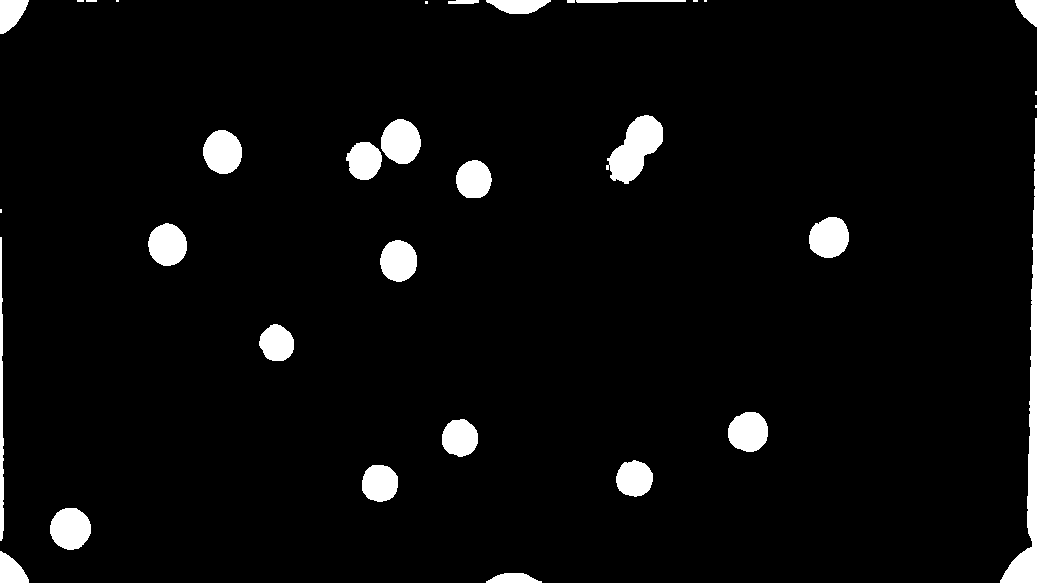
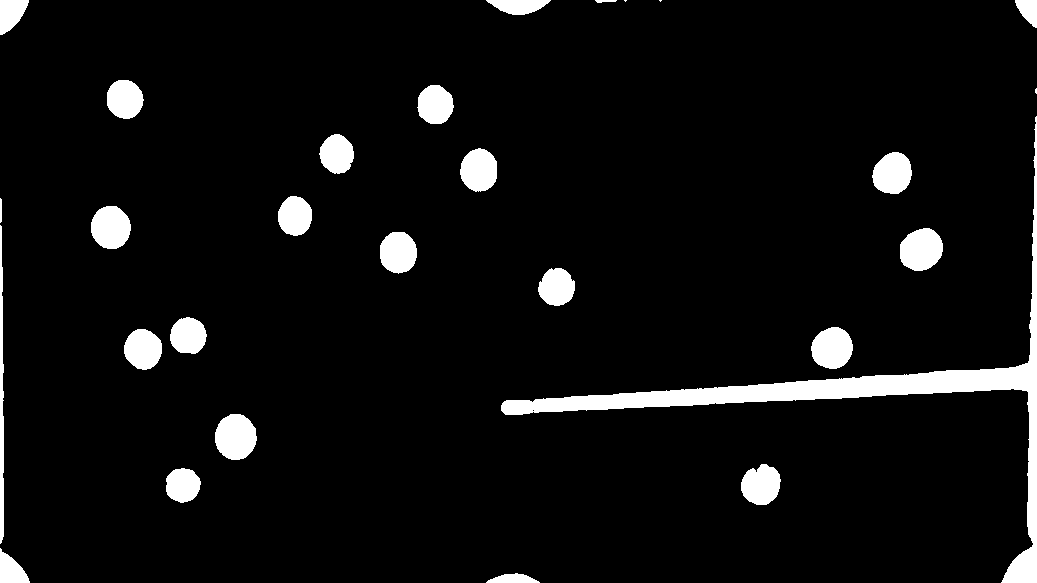
circular kernel opening

diff --git a/prototypes/cue_ball_detection/cue_ball_preprocessing.py b/prototypes/cue_ball_detection/cue_ball_preprocessing.py
@@ -21,7 +21,7 @@ def preprocess_image(image, width, height, old_corner_points, new_corner_points,
     
     img_background_removed = remove_background(img_hsv, min_background_colors_hsv, max_background_colors_hsv)
     
-    kernel = cv.getStructuringElement(cv.MORPH_RECT, (3, 3))
+    kernel = cv.getStructuringElement(cv.MORPH_ELLIPSE, (3, 3))
     img_balls_opened = cv.morphologyEx(img_background_removed, cv.MORPH_OPEN, kernel)
     
     return img_hsv, img_balls_opened
